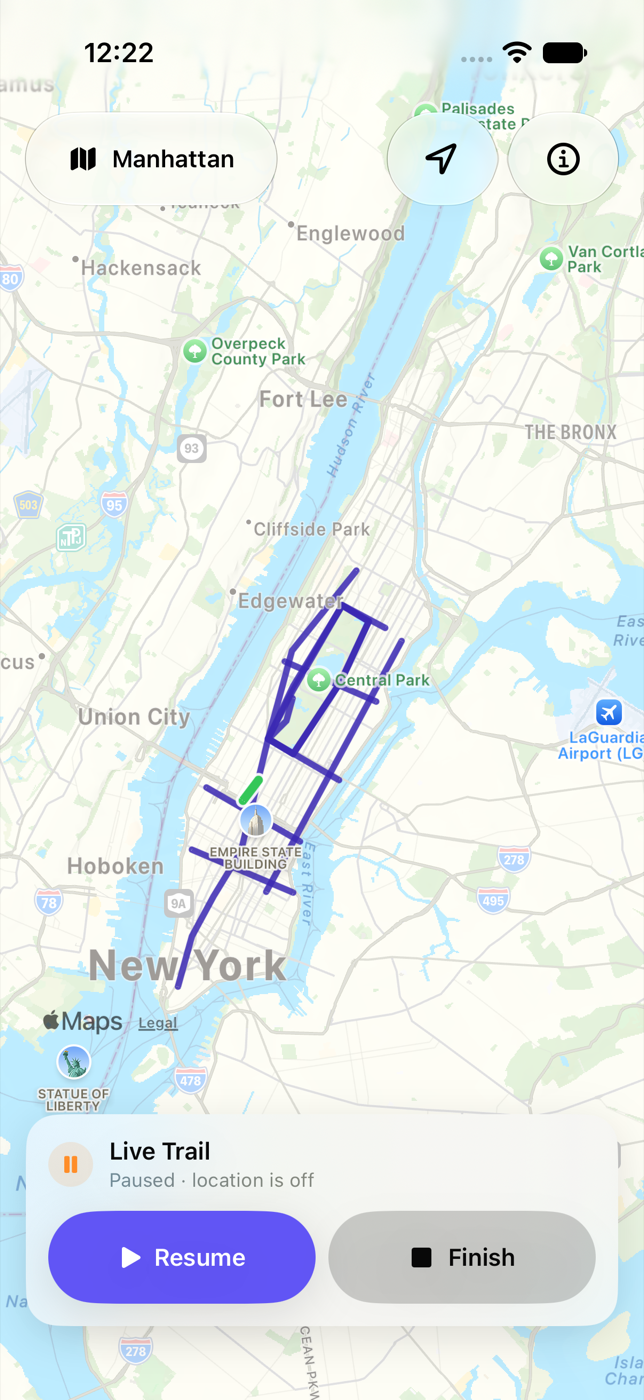
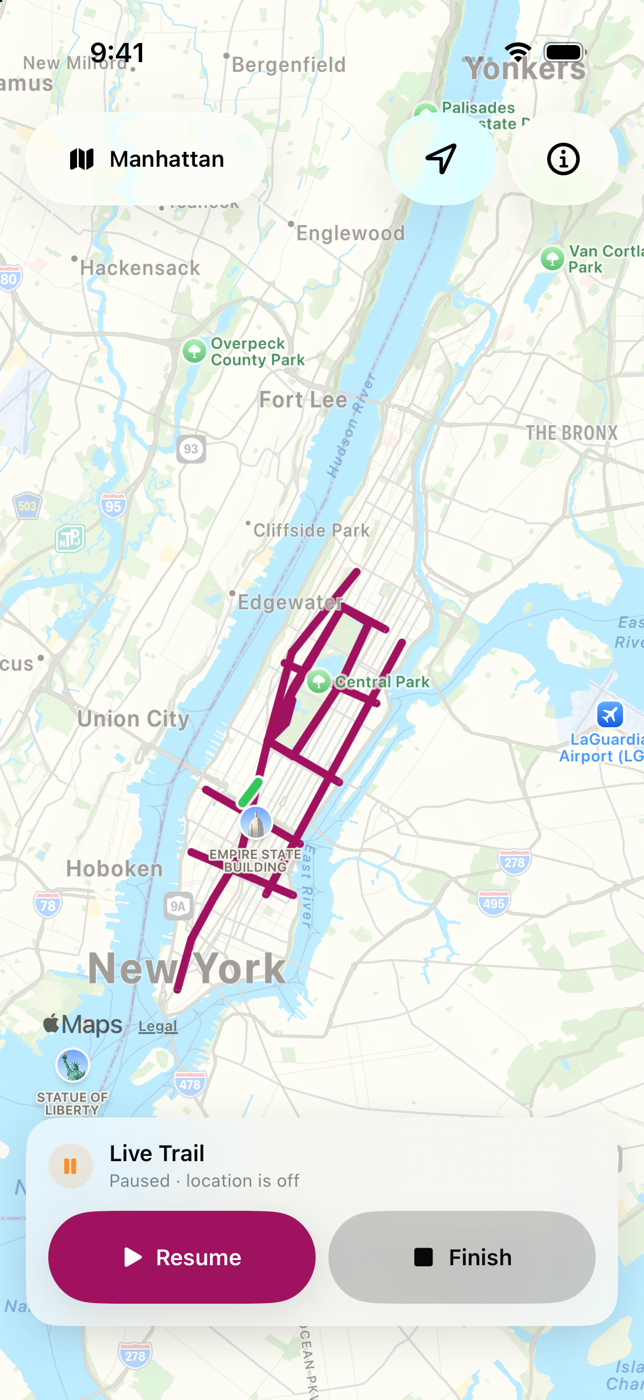
feat(map): use a daylight palette with bold single-visit routes

diff --git a/WalkItAll/Views/Sheets/AboutMapSheet.swift b/WalkItAll/Views/Sheets/AboutMapSheet.swift
@@ -5,11 +5,11 @@ struct AboutMapSheet: View {
         List {
             Section("What appears") {
                 Text("Walk It All shows walking, hiking, running, and cycling workouts that include a GPS route in Apple Health. Routes can be anywhere in the world.")
-                Text("The map opens on Manhattan because that is the first personal focus, not because walks are limited to New York.")
+                Text("A solid berry-colored line means a recorded workout took you there at least once. One visit gets the same line as ten.")
             }
             Section("How routes are prepared") {
                 Text("Locations with poor accuracy are omitted. A route is separated at long pauses, GPS outages, large jumps, or speeds that are implausible for its activity so the map does not draw an artificial line between them.")
-                Text("The remaining shape is simplified slightly for smooth map performance. Repeated routes deepen the indigo line subtly.")
+                Text("The remaining shape is simplified slightly for smooth map performance.")
             }
             Section("Limitations") {
                 Text("This is a map of recorded workout routes—not proof that every street, sidewalk, or physical walk was covered. Ordinary steps, indoor workouts, and activities without a saved route do not appear.")
@@ -18,7 +18,7 @@ struct AboutMapSheet: View {
             Section("Live Trail") {
                 Text("Live Trail is an optional temporary guide for seeing where you go right now. It is independent from Apple Health and never becomes permanent workout history.")
                 Text("Pause stops location and Resume continues in a new part. Finish stops tracking but keeps the green trail until you clear it or start a new one.")
-                Text("A supported workout recorded separately may later appear in indigo underneath. It does not change or remove the green trail.")
+                Text("A supported workout recorded separately may later appear underneath in the history color. It does not change or remove the green trail.")
             }
         }
         .navigationTitle("About This Map")

diff --git a/WalkItAllUITests/WalkItAllUITests.swift b/WalkItAllUITests/WalkItAllUITests.swift
@@ -1,3 +1,4 @@
+import CoreImage.CIFilterBuiltins
 import XCTest
 
 final class WalkItAllUITests: XCTestCase {
@@ -196,17 +197,30 @@ final class WalkItAllUITests: XCTestCase {
     }
 
     @MainActor
-    func testPopulatedMapRendersInDarkAppearance() {
+    func testMapStaysLightWhenPhoneUsesDarkMode() throws {
         let previousAppearance = XCUIDevice.shared.appearance
         XCUIDevice.shared.appearance = .dark
         defer { XCUIDevice.shared.appearance = previousAppearance }
 
         let app = launch(arguments: [
-            "-resetOnboarding", "-skipOnboarding", "-uiTestPopulated", "-AppleInterfaceStyle", "Dark",
+            "-resetOnboarding", "-skipOnboarding", "-uiTestPopulated",
         ])
         XCTAssertTrue(app.buttons["start-live-trail"].waitForExistence(timeout: 30))
         XCTAssertFalse(app.staticTexts["2 walks mapped"].exists)
-        attachScreenshot(named: "11-populated-dark", app: app)
+        let screenshot = app.screenshot()
+        let image = CIImage(cgImage: try XCTUnwrap(screenshot.image.cgImage))
+        let average = CIFilter.areaAverage()
+        average.inputImage = image
+        average.extent = image.extent.insetBy(dx: image.extent.width / 4, dy: image.extent.height / 4)
+        var rgba = [UInt8](repeating: 0, count: 4)
+        CIContext().render(try XCTUnwrap(average.outputImage), toBitmap: &rgba, rowBytes: 4,
+                           bounds: CGRect(x: 0, y: 0, width: 1, height: 1), format: .RGBA8,
+                           colorSpace: CGColorSpace(name: CGColorSpace.sRGB))
+        XCTAssertGreaterThan(rgba[1], 160, "The map should stay light with the phone in Dark Mode.")
+        let attachment = XCTAttachment(screenshot: screenshot)
+        attachment.name = "11-day-map-with-dark-system"
+        attachment.lifetime = .keepAlways
+        add(attachment)
     }
 
     @MainActor

diff --git a/WalkItAll/Views/OnboardingView.swift b/WalkItAll/Views/OnboardingView.swift
@@ -9,7 +9,7 @@ struct OnboardingView: View {
     var body: some View {
         ZStack {
             LinearGradient(
-                colors: [Color.indigo.opacity(0.15), Color(.systemBackground)],
+                colors: [Color.accentColor.opacity(0.15), Color(.systemBackground)],
                 startPoint: .topLeading,
                 endPoint: .center
             )
@@ -48,7 +48,7 @@ struct OnboardingView: View {
 
     private var valuePage: some View {
         VStack(spacing: pageSpacing) {
-            pageIcon("map.fill", color: .indigo)
+            pageIcon("map.fill", color: .accentColor)
             VStack(spacing: 12) {
                 Text("See everywhere you’ve covered.")
                     .font(pageTitleFont)
@@ -64,7 +64,7 @@ struct OnboardingView: View {
 
     private var privacyPage: some View {
         VStack(spacing: pageSpacing) {
-            pageIcon("hand.raised.fill", color: .indigo)
+            pageIcon("hand.raised.fill", color: .accentColor)
             VStack(spacing: 12) {
                 Text("Private by design.")
                     .font(pageTitleFont)
@@ -99,10 +99,10 @@ struct OnboardingView: View {
         VStack(spacing: 8) {
             HStack(spacing: 8) {
                 Capsule()
-                    .fill(page == 0 ? Color.indigo : Color.secondary.opacity(0.3))
+                    .fill(page == 0 ? Color.accentColor : Color.secondary.opacity(0.3))
                     .frame(width: page == 0 ? 24 : 8, height: 8)
                 Capsule()
-                    .fill(page == 1 ? Color.indigo : Color.secondary.opacity(0.3))
+                    .fill(page == 1 ? Color.accentColor : Color.secondary.opacity(0.3))
                     .frame(width: page == 1 ? 24 : 8, height: 8)
             }
             .animation(reduceMotion ? nil : .snappy, value: page)

diff --git a/WalkItAllTests/WalkItAllTests.swift b/WalkItAllTests/WalkItAllTests.swift
@@ -780,23 +780,24 @@ final class WalkItAllTests: XCTestCase {
     }
 
     @MainActor
-    func testSinglePassHistoryUsesStrongAdaptiveStrokeAndHonorsIncreaseContrast() throws {
+    func testDayModeKeepsSingleVisitsOpaqueAndHonorsIncreaseContrast() throws {
         let overlay = try XCTUnwrap(LifetimeWorkoutRouteOverlay(record: record(id: UUID(), latitude: 40.75)))
         let light = UITraitCollection(userInterfaceStyle: .light)
         let dark = UITraitCollection(userInterfaceStyle: .dark)
         let daylight = LifetimeRouteRenderer.make(overlay: overlay, traits: light)
         let night = LifetimeRouteRenderer.make(overlay: overlay, traits: dark)
-        XCTAssertNotEqual(daylight.strokeColor, night.strokeColor)
+        XCTAssertEqual(Bundle.main.object(forInfoDictionaryKey: "UIUserInterfaceStyle") as? String, "Light")
+        XCTAssertEqual(daylight.strokeColor, night.strokeColor)
         for renderer in [daylight, night] {
             let color = try XCTUnwrap(renderer.strokeColor)
-            XCTAssertGreaterThanOrEqual(renderer.lineWidth, 4)
-            XCTAssertGreaterThanOrEqual(color.cgColor.alpha, 0.8)
-            XCTAssertLessThan(color.cgColor.alpha, 1)
+            XCTAssertGreaterThanOrEqual(renderer.lineWidth, 5)
+            XCTAssertEqual(color.cgColor.alpha, 1)
         }
         for base in [light, dark] {
             let highContrast = base.modifyingTraits { $0.accessibilityContrast = .high }
             let renderer = LifetimeRouteRenderer.make(overlay: overlay, traits: highContrast)
             XCTAssertEqual(renderer.strokeColor?.cgColor.alpha, 1)
+            XCTAssertNotEqual(renderer.strokeColor, LifetimeRouteRenderer.historyColor.resolvedColor(with: base))
         }
     }
 

diff --git a/WalkItAll/Map/LifetimeRouteOverlay.swift b/WalkItAll/Map/LifetimeRouteOverlay.swift
@@ -44,19 +44,12 @@ final class LifetimeWorkoutRouteOverlay: MKMultiPolyline, @unchecked Sendable {
 
 enum LifetimeRouteRenderer {
     static let usesNativeSpatialCulling = true
-    static let strokeAlpha: CGFloat = 0.86
-    static let historyColor = UIColor { traits in
-        let dark = traits.userInterfaceStyle == .dark
-        let color = dark
-            ? UIColor(red: 0.72, green: 0.70, blue: 1, alpha: 1)
-            : UIColor(red: 0.23, green: 0.16, blue: 0.70, alpha: 1)
-        return color.withAlphaComponent(traits.accessibilityContrast == .high ? 1 : strokeAlpha)
-    }
+    static let historyColor = UIColor(resource: .accent)
 
     static func make(overlay: LifetimeWorkoutRouteOverlay, traits: UITraitCollection) -> MKMultiPolylineRenderer {
         let renderer = MKMultiPolylineRenderer(multiPolyline: overlay)
         renderer.strokeColor = historyColor.resolvedColor(with: traits)
-        renderer.lineWidth = 4
+        renderer.lineWidth = 5
         renderer.lineCap = .round
         renderer.lineJoin = .round
         return renderer

diff --git a/WalkItAll/Views/Components/LiveTrailControls.swift b/WalkItAll/Views/Components/LiveTrailControls.swift
@@ -9,12 +9,12 @@ struct StartLiveTrailButton: View {
             if #available(iOS 26.0, *) {
                 button
                     .buttonStyle(.glassProminent)
-                    .tint(.indigo)
+                    .tint(.accentColor)
             } else {
                 button
                     .buttonStyle(.borderedProminent)
                     .buttonBorderShape(.capsule)
-                    .tint(.indigo)
+                    .tint(.accentColor)
             }
         }
         .shadow(color: .black.opacity(0.12), radius: 12, y: 6)
@@ -243,7 +243,7 @@ private struct LiveTrailActionButton: View {
             case .primary:
                 button
                     .buttonStyle(.borderedProminent)
-                    .tint(.indigo)
+                    .tint(.accentColor)
             case .secondary:
                 button
                     .buttonStyle(.bordered)

diff --git a/WalkItAll/Map/LifetimeMapView.swift b/WalkItAll/Map/LifetimeMapView.swift
@@ -23,7 +23,7 @@ struct LifetimeMapView: UIViewRepresentable {
     func makeUIView(context: Context) -> MKMapView {
         let mapView = LayoutAwareMapView(frame: .zero)
         mapView.delegate = context.coordinator
-        mapView.registerForTraitChanges([UITraitUserInterfaceStyle.self, UITraitAccessibilityContrast.self]) {
+        mapView.registerForTraitChanges([UITraitAccessibilityContrast.self]) {
             (map: MKMapView, _: UITraitCollection) in
             for case let overlay as LifetimeWorkoutRouteOverlay in map.overlays {
                 guard let renderer = map.renderer(for: overlay) as? MKMultiPolylineRenderer else { continue }

diff --git a/WalkItAll/Views/Sheets/WorkoutHistorySheet.swift b/WalkItAll/Views/Sheets/WorkoutHistorySheet.swift
@@ -43,7 +43,7 @@ private struct WorkoutRow: View {
         HStack(spacing: 12) {
             Image(systemName: isSelected ? "checkmark.circle.fill" : record.activityKind.systemImage)
                 .font(.title2)
-                .foregroundStyle(isSelected ? .indigo : .secondary)
+                .foregroundStyle(isSelected ? Color.accentColor : Color.secondary)
             VStack(alignment: .leading, spacing: 4) {
                 Text(record.start.formatted(date: .abbreviated, time: .shortened))
                     .font(.body.weight(.semibold))

diff --git a/WalkItAll/Views/RootView.swift b/WalkItAll/Views/RootView.swift
@@ -68,7 +68,7 @@ private struct LaunchPlaceholder: View {
             VStack(spacing: 14) {
                 Image(systemName: "map.fill")
                     .font(.system(size: 42))
-                    .foregroundStyle(.indigo)
+                    .foregroundStyle(Color.accentColor)
                 ProgressView("Opening your map…")
             }
         }

diff --git a/Documentation/VALIDATION.md b/Documentation/VALIDATION.md
@@ -8,7 +8,7 @@ The verification script must pass:
 - Health cursor v3 migration, route association, authoritative reconciliation, and conservative zero-readable-cache preservation tests;
 - repository activity payload compatibility, replacement, deletion, reset, corruption recovery, locked-data deferral, external-support-tree protection, cursor, ledger, and timestamp round trips;
 - synchronization addition, invalidation, deletion, cancellation, generation, and refresh-throttle tests;
-- overlay completeness, worldwide bounds, native spatial culling, repeat opacity, selection viewport, explicit true-north camera reset, north-up and heading-up tracking state, and selection-without-history-rebuild tests;
+- overlay completeness, worldwide bounds, native spatial culling, single-visit opacity, selection viewport, explicit true-north camera reset, north-up and heading-up tracking state, and selection-without-history-rebuild tests;
 - Live Trail filtering, pre-session rejection, discontinuities, Pause/Resume separation, crash-safe final Finish, Clear, exact-file persistence, structural corruption, retained finished state, and locked relaunch ordering tests;
 - onboarding, empty state, restrained populated map, Live Trail explanation, consistent equal-width Live Trail actions, paused and finished states, details, Health help, history, privacy, and Dynamic Type UI tests.
 
@@ -19,7 +19,7 @@ Before signoff:
 1. Record the current drawable-route and processed-workout counts, run the activity-scope reconciliation, and confirm existing walks/hikes remain while supported runs and rides appear. Counts are intentionally not fixed because they grow as new workouts sync.
 2. Compare representative walk, hike, run, and ride routes with Apple Fitness. Confirm that inaccurate points, transit, outages, and implausible jumps are not bridged.
 3. Start Live Trail, lock the phone, walk several blocks, and confirm the solid green trail is continuous after reopening. Pause and confirm background trail tracking and its system indicator stop; Resume and confirm a new trail part begins without bridging the break. Finish and confirm the state is final across relaunch.
-4. Confirm Start New replaces a finished trail only after confirmation when it has geometry, and Clear removes it. Record a supported Watch workout separately and verify its indigo Health route imports without altering the green trail.
+4. Confirm Start New replaces a finished trail only after confirmation when it has geometry, and Clear removes it. Record a supported Watch workout separately and verify its berry-colored Health route imports without altering the green trail.
 5. Verify outdoors that the first location-button tap follows north-up, the second enters MapKit's heading-up view with an accurate native direction presentation, the third returns north-up, and panning or rotating releases position follow.
 6. Exercise denied permission, interruption/relaunch, stationary time, implausible movement, 12-hour timeout, and Health route replacement/deletion.
 7. Reinstall after Health synchronization and rebuild the same permanent history; confirm the backup-excluded temporary Live Trail is not restored.
@@ -35,17 +35,17 @@ Use a Release build and realistic synthetic history of at least 1,500 workouts w
 - no unbounded growth during a multi-hour Live Trail and no excessive map-overlay churn;
 - acceptable battery use during at least one two-hour real walk.
 
-Check that a route recorded once is legible over streets, parkland, and water in both appearances. Switch appearance while the map is open and verify the displayed paths change shade.
+Check that a route recorded once is legible over streets, parkland, and water in day mode. Switch the iPhone to Dark Mode and confirm that the map and controls still use their light appearance.
 
 ## Privacy and accessibility gate
 
-Verify light and dark appearance, high contrast, reduced transparency, reduced motion, VoiceOver, and all Dynamic Type sizes. Confirm 44-point controls and that normal-size layouts remain compact.
+Verify day mode under both iPhone appearances, high contrast, reduced transparency, reduced motion, VoiceOver, and all Dynamic Type sizes. Confirm 44-point controls and that normal-size layouts remain compact.
 
 On a real device, confirm complete protection for permanent history, complete-until-first-user-authentication protection for the locked-screen Live Trail checkpoint, backup exclusion on both stores, redacted logs, and no app-originated network activity beyond Apple MapKit.
 
 ## Current status
 
-On 2026-11-21, 22 core tests and 70 app and UI tests passed on the Mac and iOS 26.5 Simulator respectively. The unsigned iPhone Release build and static analysis passed. The light and dark map previews show the same synthetic routes after switching appearance with the map open. The physical iPhone was unavailable for this pass.
+On 2026-11-21, 22 core tests and 70 app and UI tests passed on the Mac and iOS 26.5 Simulator respectively. The unsigned iPhone Release build passed. With the simulator set to Dark Mode, the populated map and paused Live Trail both displayed the light basemap and solid berry paths. The physical iPhone was unavailable for this pass.
 
 ### Earlier personal-device validation
 

diff --git a/Documentation/ARCHITECTURE.md b/Documentation/ARCHITECTURE.md
@@ -66,7 +66,7 @@ The file and directory use complete-until-first-user-authentication protection a
 
 `LifetimeRouteSnapshot` is built immutably away from the main actor and contains one native `MKMultiPolyline` overlay per workout. Each overlay has tight local bounds, so MapKit performs its own viewport culling and does not treat worldwide history as one enormous drawing surface. This also avoids maintaining a parallel custom spatial index and renderer.
 
-Historical paths use a four-point indigo stroke. The renderer uses a deep shade on a light map and a lighter shade on a dark map. Repeated routes deepen through alpha compositing. Increase Contrast makes even a single pass fully opaque. Selected workouts use outlined orange strokes, Live Trail uses outlined green strokes, and MapKit supplies the blue position indicator.
+Historical paths use the app’s adaptive accent color in a fully opaque five-point stroke from the first visit. The app declares a light appearance in its Info.plist. MapKit and SwiftUI share a deep berry accent with a darker variant for Increase Contrast. Selected workouts use outlined orange strokes, Live Trail uses outlined green strokes, and MapKit supplies the blue position indicator.
 
 The map uses MapKit's native user-tracking modes. From a freely panned map, the location button first enters north-up position following; a second tap enters heading-up following, which rotates the map using MapKit's standard heading presentation; the next tap returns north-up. Because MapKit's plain `follow` mode promises position tracking but does not promise orientation, the adapter first resets `MKMapCamera.heading` to its documented true-north value of zero and then enables `follow`. Starting or resuming Live Trail enters heading-up following. Normal map gestures return the camera to free mode through MapKit's tracking delegate, so the camera never fights the user. No parallel compass service or custom direction annotation is maintained.
 

diff --git a/README.md b/README.md
@@ -24,7 +24,7 @@ Walk It All combines walking, hiking, running, and cycling routes from Apple Hea
     <td align="center"><strong>Live Trail</strong></td>
   </tr>
   <tr>
-    <td><picture><source media="(prefers-color-scheme: dark)" srcset="Documentation/Screenshots/lifetime-map-dark.png"><img src="Documentation/Screenshots/lifetime-map.png" alt="Lifetime workout routes across Manhattan"></picture></td>
+    <td><img src="Documentation/Screenshots/lifetime-map.png" alt="Manhattan workout routes in deep berry on a light map"></td>
     <td><img src="Documentation/Screenshots/selected-workout.png" alt="A selected walking workout in Central Park"></td>
     <td><img src="Documentation/Screenshots/live-trail-paused.png" alt="Paused Live Trail with Resume and Finish controls"></td>
   </tr>
@@ -37,7 +37,7 @@ Walk It All combines walking, hiking, running, and cycling routes from Apple Hea
 Apple Fitness is good at showing one workout at a time. Walk It All answers a different question: **where have all of my recorded outdoor workouts taken me?**
 
 - Permanent routes come from read-only Apple Health access.
-- Walking, hiking, running, and cycling appear together in indigo.
+- The map always uses day mode. A single recorded visit marks a path with a solid deep berry line. Walking, hiking, running, and cycling all count.
 - Selecting a workout highlights it in orange and shows its activity, source, date, and duration.
 - **Live Trail** draws one temporary green trail while you explore. It can continue through screen lock, but remains independent of Apple Health and stays only until you clear or replace it.
 - The map starts on Manhattan, including parks and waterfront paths, but imported routes can appear anywhere.
